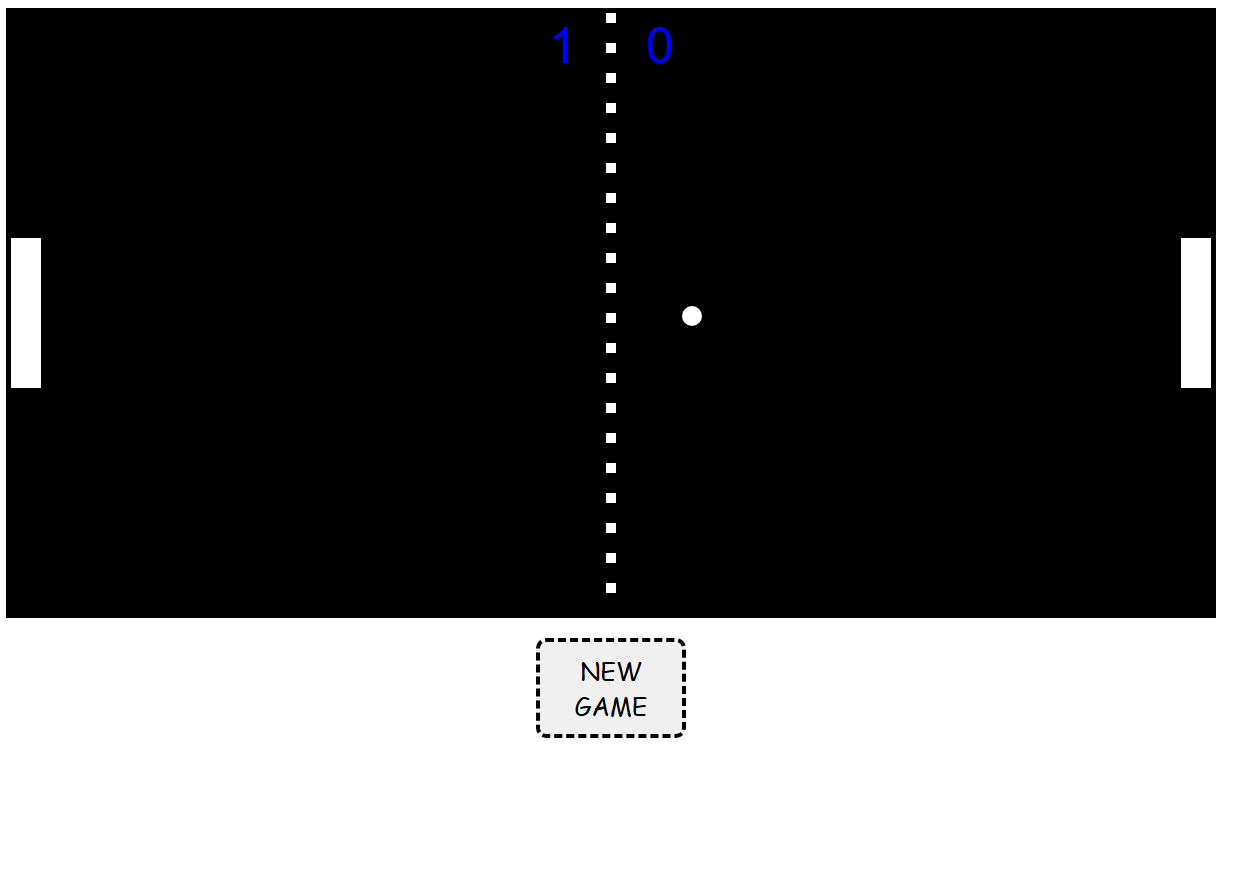
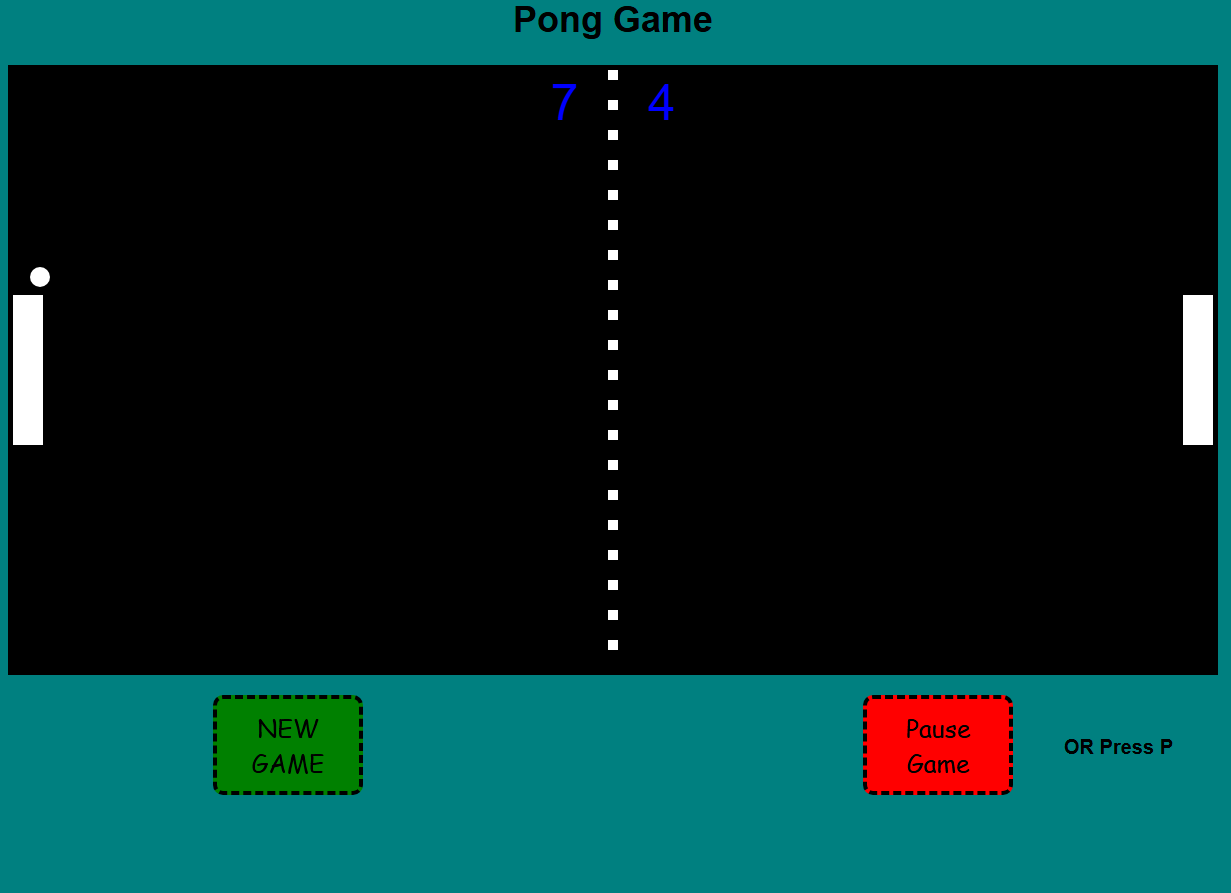
homepage zoom fix and pong edits

diff --git a/pong/pong.js b/pong/pong.js
@@ -1,13 +1,17 @@
 const pongBoard = document.getElementById("pongBoard");
 const ctx = pongBoard.getContext("2d");
 const resetButton = document.getElementById("resetButton");
+const pauseButton = document.getElementById("pauseButton");
 
 resetButton.addEventListener("click", resetGame);
 document.addEventListener("keydown", keyDownHandler);
 document.addEventListener("keyup", keyUpHandler);
+pauseButton.addEventListener('click',gamePause);
 
 const boardWidth = 1200;
 const boardHeight = 600;
+
+let paused = false; 
 
 let player1Score = 0;
 let player2Score = 0;
@@ -39,6 +43,9 @@ let ball = {
 startGame();
 // starts the game and then updates the game (helps constantly redraw the board, paddle, ball)
 function startGame() {
+    if(paused){
+        return;
+    }
     ctx.fillStyle = "black"; 
     ctx.fillRect(0, 0, boardWidth, boardHeight);
     drawScore();
@@ -76,24 +83,43 @@ function keyUpHandler(e) {
     if (e.key === "ArrowUp" || e.key === "ArrowDown") player2Paddle.dy = 0;
 }
 
+// everytime the pause button is paused, paused is changed from true to false and vice versa. 
+// if pause is false, !pause makes it true, starting the game back up.
+function gamePause() {
+    paused = !paused;
+    if (!paused) {
+        startGame();
+    }
+}
+
+document.addEventListener('keydown', function(e) {
+    if(e.key === 'p' || e.key === 'P'){
+        gamePause();
+    }
+});
+
 // Paddle movement, uses the change of dy to change the speed of the paddle.
 setInterval(() => {
+    if(!paused){
     player1Paddle.y += player1Paddle.dy;
     player2Paddle.y += player2Paddle.dy;
 
     player1Paddle.y = Math.max(0, Math.min(boardHeight - player1Paddle.height, player1Paddle.y));
     player2Paddle.y = Math.max(0, Math.min(boardHeight - player2Paddle.height, player2Paddle.y));
+    }
 }, 1000 / 60);
 
-// draws the ball
+// draws the ball, arc creates a circle
 function drawBall() {
     ctx.beginPath();
+    ctx.fillStyle = "blue";
     ctx.arc(ball.x, ball.y, ball.radius, 0, Math.PI * 2);
-    ctx.fillStyle = "white";
     ctx.fill();
     ctx.closePath();
 }
-// reset the ball back into the middle position
+// reset the ball back into the middle position Math.random() returns a random number between 0 and 1 (including 0 but excluding 1). Using a ternary statement, i can return a 1 or -1
+// Math.random() returns a random number between 0 and 1 (including 0 but excluding 1). 
+// Using a ternary statement, i can return a 1 or -1 to change direction for left or right.
 function resetBall() {
     ball.x = boardWidth / 2;
     ball.y = boardHeight / 2;
@@ -101,7 +127,9 @@ function resetBall() {
     ball.dy = 3 * (Math.random() > 0.5 ? 1 : -1);
 }
 // changes the direction of the ball
+
 function moveBall() {
+    if (!paused){
     ball.x += ball.dx;
     ball.y += ball.dy;
     
@@ -126,12 +154,13 @@ function moveBall() {
         player1Score++;
         resetBall();
     }
+    }
 }
 //resets the game
 function resetGame() {
     player1Score = 0;
     player2Score = 0;
-    resetBall(); 
+    resetBall();
 } 
 //draws the stripes going down the center of the board
 function drawCenterLines() {

diff --git a/pong/pong.css b/pong/pong.css
@@ -1,3 +1,13 @@
+body{
+    background-color: teal;
+    font-size: large;
+    font-family: sans-serif;
+    overflow: hidden;
+}
+#header{
+    text-align: center;
+    justify-content: center;
+}
 #Container{
     display: flex;
     flex-direction: column;
@@ -7,6 +17,12 @@
 #pongBoard{
     border: 5px solid;
 }
+#buttons{
+    display: flex;
+    justify-content: center;
+    gap: 500px;
+    margin-top: 20px;
+}
 #resetButton{
     font-family:cursive;
     font-size: 25px;
@@ -15,5 +31,24 @@
     width: 150px;
     height: 100px;
     cursor: pointer;
-    margin-top: 20px;
+    background-color: green;
+}
+
+#pauseButton{
+    font-family:cursive;
+    font-size: 25px;
+    border: 4px dashed;
+    border-radius: 10px;
+    width: 150px;
+    height: 100px;
+    cursor: pointer;
+    background-color: red;
+}
+
+#press{
+    position: absolute;
+    font-size: 20px;
+    top: 725px;
+    right: 400px;
+    font-weight: bold;
 }

diff --git a/homepage/index.css b/homepage/index.css
@@ -5,7 +5,11 @@ body{
     justify-content: center;
     align-items: center;
     font-family: Arial, sans-serif;
-    background-color: black;
+    /* background: linear-gradient(to right, #e0c3fc, #8ec5fc); */
+    /* background: linear-gradient(to right, #6a11cb, #2575fc); */
+    background: radial-gradient(circle, #ff6a00, #ee0979);
+    /* background: linear-gradient(to left, #ff5f6d, #ffc3a0); */
+    z-index: 1;
 }
 
 .container {
@@ -14,6 +18,7 @@ body{
 }
 
 .container div {
+    padding-top: 20px;
     text-align: center;
 }
 
@@ -24,17 +29,18 @@ body{
 
 .gameName {
     margin-top: 8px;
-    font-size: 16px;
+    font-size: 24px;
     color: white;
     font-weight: bold;
 }
 
 .title {
     position: absolute;
-    top: 20px;
+    top: 0;
     text-align: center;
     width: 100%;
     font-size: 100px;
     font-weight: bold;
     color: white;
+    z-index: 10;
 }

diff --git a/pong/pong.html b/pong/pong.html
@@ -5,11 +5,16 @@
     <title>Pong Game</title>
     <link rel="stylesheet" href="pong.css">
 </head>
-<body style="transform: scale(.8);">
+<body>
+    <h1 id = "header">Pong Game</h1>
     <div id="Container">
         <canvas id = "pongBoard" width ="1200" height ="600"></canvas>
+        <div id = "buttons">
         <button id ="resetButton">NEW GAME</button>
+        <button id ="pauseButton">Pause Game</button>
+        </div>
     </div>
+    <p id = "press">OR Press P</p>
     <script src="pong.js"></script>
 </body>
 </html>

diff --git a/homepage/index.html b/homepage/index.html
@@ -5,7 +5,7 @@
     <title>Idle Student</title>
     <link rel="stylesheet" href="index.css">
 </head>
-<body>
+<body style="transform: scale(0.8);">
     <h1 class="title">Idle Games</h1>
     <div class="container">
         <div class="game1">
